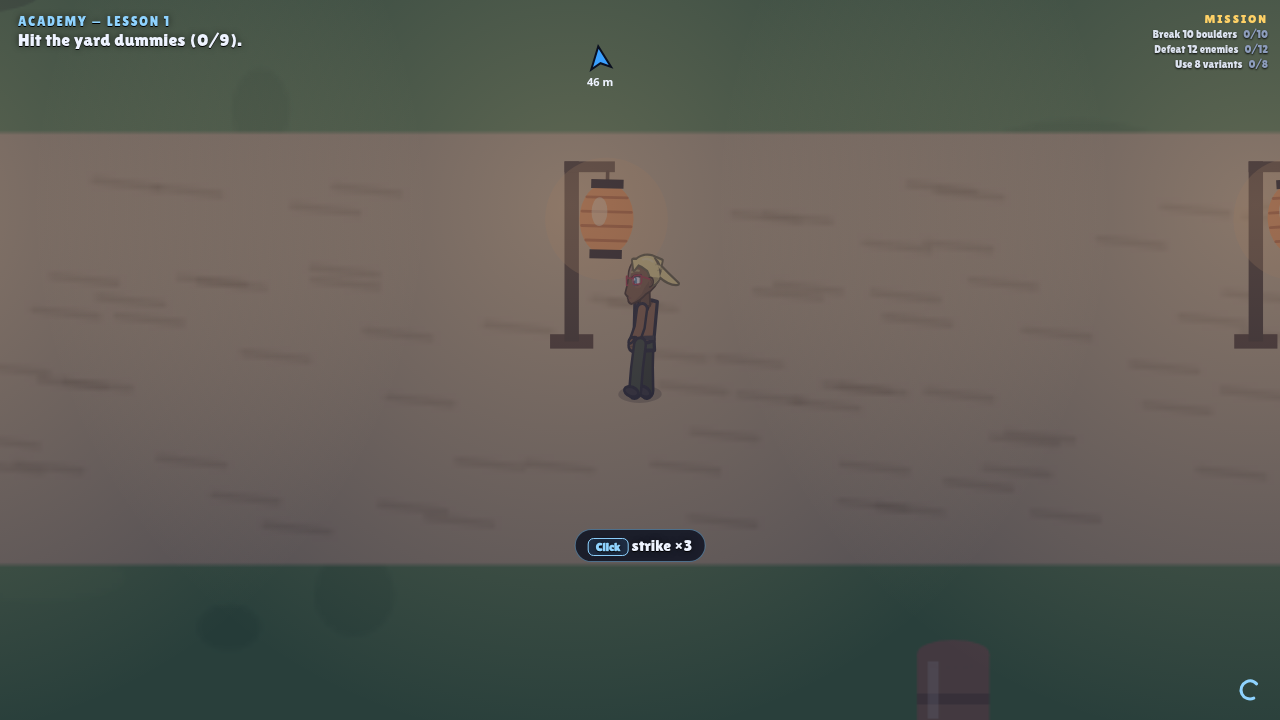
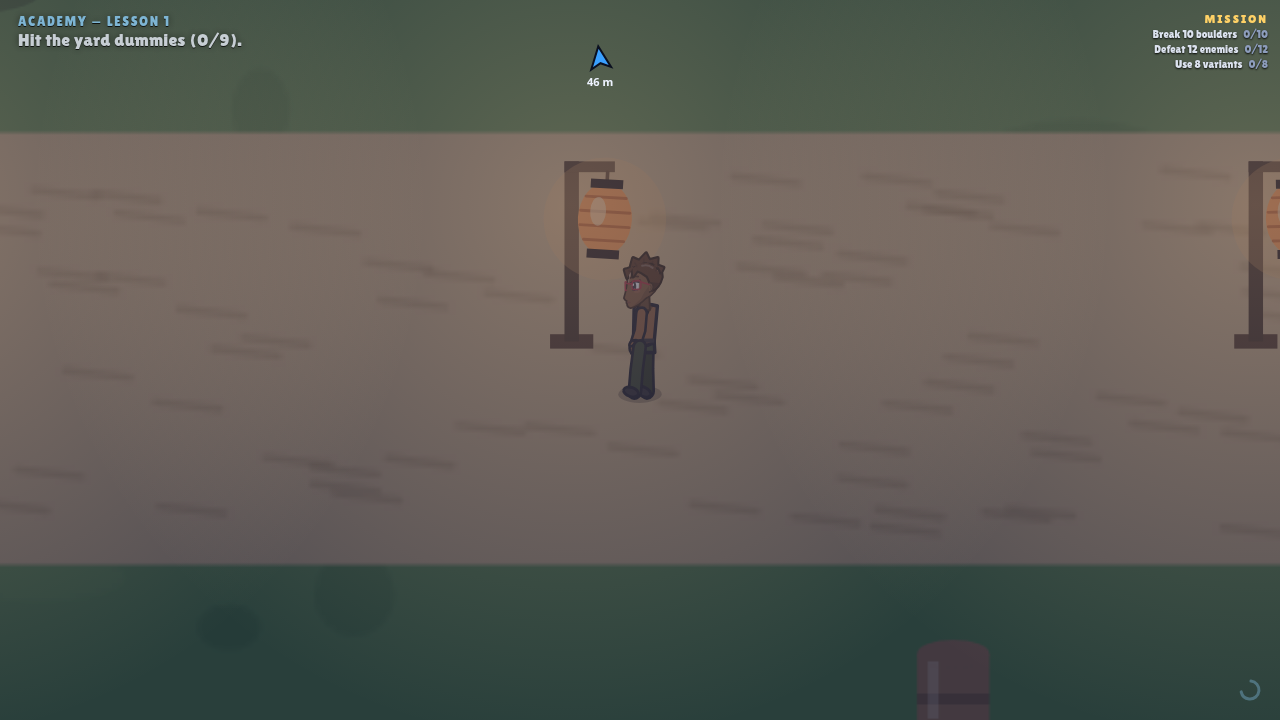
v0.10.50 Point-blank projectiles hit; academy lesson 3 fixed

diff --git a/tests/voie1.js b/tests/voie1.js
@@ -1,0 +1,32 @@
+// Real-input Voie onboarding: new game -> dummies -> dodge -> technique -> rival -> team -> sensei bells -> mission board -> first mission.
+const {chromium}=require('playwright-core');const SH='/workspace/two-blue-vortex/screens/v10/np/';
+(async()=>{const b=await chromium.launch({executablePath:'/usr/bin/google-chrome',args:['--no-sandbox']});const errs=[];const p=await b.newPage({viewport:{width:1280,height:720}});p.on('pageerror',e=>errs.push(e.message));p.on('console',m=>{if(m.type()=='error')errs.push(m.text().slice(0,150))});
+await p.goto('file:///workspace/two-blue-vortex/index.html');await p.waitForTimeout(900);if(await p.$('#lay07'))await p.click('#lay1');await p.click('#bNewV');await p.waitForTimeout(1200);await p.click('#cGo');
+const seen={};let last='',stuck=0;const T0=Date.now();
+for(let it=0;it<900&&Date.now()-T0<330000;it++){
+ const s=await p.evaluate(()=>{const h=Game.hero,V=Voie;const sc=Math.min(Math.max(innerWidth/1150,0.62),1.25)*Cam.z;const scr=(o)=>[innerWidth/2+(o.x-Cam.x)*sc,innerHeight/2+(o.y-30-Cam.y)*sc];
+  const S=V.step;let t=null,mode='walk';const F=World.foes().filter(f=>f.hp>0&&!f.gone);
+  if(S==='a1'||S==='a3'){t=F.filter(f=>f.tag==='yard').sort((a,b)=>dist(a,h)-dist(b,h))[0];mode=S==='a1'?'m1':'s1'}
+  else if(S==='a2'){t={x:h.x,y:h.y};mode='dodge';const pr=Proj.find(q=>q.lesson&&Math.hypot(q.x-h.x,q.y-h.y)<140);if(!pr)mode='wait'}
+  else if(S==='a4'||S==='a6'){t=F.filter(f=>f.tag==='rival'||f.tag==='sensei')[0];mode='fight'}
+  else if(S==='a5'){t=V.iruka;mode='use'}
+  else{const g=V.target&&V.target();if(g)t={x:g[0],y:g[1]};mode=V.mis?'fight':'use';const n=F.filter(f=>!f.passive&&!f.dummy).sort((a,b)=>dist(a,h)-dist(b,h))[0];if(n&&dist(n,h)<400){t=n;mode='fight'}}
+  return {S,les:V.lesson,mis:V.mis&&V.mis.id,got:V.mis&&V.mis.got,talk:Talk.on,ch:!!Talk.showing,scene:!!(window.Scene&&Scene.on),cine:!!Game.cine,t:t?[t.x-h.x,t.y-h.y,Math.hypot(t.x-h.x,t.y-h.y)]:null,sp:t?scr(t):null,mode,hp:Math.round(h.hp/h.maxHp*100),obj:document.body.innerText.match(/(ACADEMY|ACADÉMIE|MISSION)[^\n]*\n[^\n]*/)?.[0]}});
+ const key=s.S+(s.mis||'');if(!seen[key]){seen[key]=1;console.log((Date.now()-T0)/1000|0,'s','step',s.S,'mis',s.mis,'obj',JSON.stringify(s.obj));await p.screenshot({path:SH+'voie1-'+key+'.png'})}
+ if(s.scene){await p.keyboard.press('Escape');const sk=await p.$('#scnskip');if(sk&&await sk.isVisible().catch(()=>0))await sk.click().catch(()=>{});await p.waitForTimeout(300);continue}
+ if(s.talk){if(s.ch)await p.keyboard.press('Digit1');await p.keyboard.press('KeyE');await p.waitForTimeout(350);continue}
+ if(s.cine){await p.waitForTimeout(200);continue}
+ if(s.S==='free'&&s.mis===null&&seen.freeMisDone)break;
+ const sig=JSON.stringify([s.S,s.les,s.mis,s.got]);if(sig===last)stuck++;else{stuck=0;last=sig}
+ if(!s.t){await p.waitForTimeout(200);continue}
+ const near=s.mode==='use'?50:s.mode==='fight'?90:60;
+ if(s.t[2]>near&&s.mode!=='dodge'&&s.mode!=='wait'){const k=[];if(s.t[0]>20)k.push('ArrowRight');if(s.t[0]<-20)k.push('ArrowLeft');if(s.t[1]>20)k.push('ArrowDown');if(s.t[1]<-20)k.push('ArrowUp');for(const x of k)await p.keyboard.down(x);await p.waitForTimeout(Math.min(400,60+s.t[2]/2));for(const x of k)await p.keyboard.up(x);if(s.mode==='use'||s.t[2]>250)continue}
+ if(s.mode==='dodge'){await p.keyboard.down('ArrowUp');await p.keyboard.press('KeyQ');await p.keyboard.up('ArrowUp');await p.waitForTimeout(250);continue}
+ if(s.mode==='wait'){await p.waitForTimeout(120);continue}
+ await p.mouse.move(s.sp[0],s.sp[1]);
+ if(s.mode==='use'){await p.keyboard.press('KeyE');await p.waitForTimeout(300)}
+ else if(s.mode==='s1'){await p.keyboard.press('Digit1');await p.waitForTimeout(500)}
+ else{const r=it%7;if(r===3)await p.keyboard.press('Digit1');else if(r===5)await p.keyboard.press('Digit2');else{await p.mouse.down();await p.waitForTimeout(50);await p.mouse.up()}await p.waitForTimeout(220)}
+ if(s.S==='free'&&s.mis)seen.freeMisDone=0; if(s.S==='free'&&!s.mis&&seen['freechat'+'']){}
+ if(stuck>0&&stuck%60===0)console.log('STUCK?',sig,JSON.stringify(s))}
+const e=await p.evaluate(()=>[Voie.step,Voie.mis&&Voie.mis.id,Voie.done,Voie.rank]);console.log('end',JSON.stringify(e),'secs',(Date.now()-T0)/1000|0);await p.screenshot({path:SH+'voie1-fin.png'});console.log('errs',errs.slice(0,5));await b.close()})();

diff --git a/index.html b/index.html
@@ -104,7 +104,7 @@ button.b.p{background:var(--gold);color:var(--ink)}button.b.p2{background:var(--
 <script>
 'use strict';
 /* ============ Noyau : réglages, sauvegarde, entrées, audio ============ */
-const VERSION = '0.10.49';
+const VERSION = '0.10.50';
 const K10 = Math.sqrt(10); // v0.9.7 : échelle des cartes extérieures (surface ×10)
 const $ = (s) => document.querySelector(s);
 const TAU = Math.PI * 2, clamp = (v, a, b) => (v < a ? a : v > b ? b : v), lerp = (a, b, t) => a + (b - a) * t;
@@ -5959,6 +5959,19 @@ let FT10 = null, FB10 = null;
     g.fillStyle = 'rgba(255,255,255,.18)'; g.fillRect(x, y, W * pr, 1.5);
     g.fillStyle = 'rgba(6,10,22,.9)'; for (const k of [0.25, 0.5, 0.75]) g.fillRect(x + W * k - 1, y - 1, 2, 7);
     g.restore(); };
+})();
+
+// v0.10.50 — Bout portant : un projectile du joueur naît à la main, parfois déjà « derrière » un ennemi collé à lui (ex. leçon 3 de l’Académie, shuriken sur un mannequin au contact → raté).
+// À sa première frame, on teste le segment corps → main : le premier ennemi traversé est touché via le chemin normal (on recule simplement le projectile sur lui).
+(() => {
+  const pu = projUpdate;
+  projUpdate = function (dt) {
+    for (const p of Proj) { if (p._pb10) continue; p._pb10 = 1; const u = p.src; if (p.team !== 0 || !u || !u.isHero) continue;
+      const ax = u.x, ay = u.y - 34, bx = p.x, by = p.y, L = Math.hypot(bx - ax, by - ay) + 1; let best = null, bt = 2;
+      for (const f of World.foes()) { if (f.hp <= 0 || f.gone) continue; const fx = f.x, fy = f.y - 34, t = clamp(((fx - ax) * (bx - ax) + (fy - ay) * (by - ay)) / (L * L), 0, 1); const d = Math.hypot(ax + (bx - ax) * t - fx, ay + (by - ay) * t - fy); if (d < (f.r || 16) + (p.r || 10) && t < bt) { bt = t; best = f; } }
+      if (best) { p.x = best.x - p.vx * dt; p.y = best.y - 34 - p.vy * dt; } }
+    return pu.apply(this, arguments);
+  };
 })();
 
 </script></body></html>

diff --git a/tests/l3.js b/tests/l3.js
@@ -1,0 +1,6 @@
+const {chromium}=require('playwright-core');
+(async()=>{const b=await chromium.launch({executablePath:'/usr/bin/google-chrome',args:['--no-sandbox']});const p=await b.newPage({viewport:{width:1280,height:720}});const errs=[];p.on('pageerror',e=>errs.push(e.message));
+await p.goto('file:///workspace/two-blue-vortex/index.html');await p.waitForTimeout(900);if(await p.$('#lay07'))await p.click('#lay1');
+await p.evaluate(()=>{Game.startVoie({name:'Aoi',clan:'uchiha',look:makeLook(9)});setInterval(()=>{if(window.Scene&&Scene.on)Scene.close();if(Talk.on&&Talk.t>0.3){if(Talk.showing)Talk.pick(0);else Talk.next()}},200)});await p.waitForTimeout(5000);
+for(const D of [12,60,150]){const r=await p.evaluate(async(D)=>{Voie.set('a3');Voie.flags.l3t=0;const h=Game.hero;const d=World.foes().filter(f=>f.tag==='yard')[0];h.x=d.x-D;h.y=d.y;h.cd={};h.ch=999;Input.mouse&&(Input.mouse.wx=d.x);const id=Game.skills[0];const hp0=d.hp;h.aimA=0;fireSkill(h,SK[id],id);await new Promise(r=>setTimeout(r,120));const P0=Proj.map(q=>[Math.round(q.x-d.x),Math.round(q.y-d.y),q.team,!!q.src,q.src&&q.src.isHero,q.r,q.kind]);await new Promise(r=>setTimeout(r,1500));return [JSON.stringify(P0),id,D,Voie.step,d.hp,hp0,d.tag,d.dummy,Object.keys(d).filter(k=>/hit|inv|iframe/.test(k))]},D);console.log(JSON.stringify(r))}
+console.log(errs);await b.close()})();

diff --git a/tests/lan.js b/tests/lan.js
@@ -2,6 +2,7 @@ const {chromium}=require('playwright-core');
 (async()=>{const b=await chromium.launch({executablePath:'/usr/bin/google-chrome',args:['--no-sandbox']});const errs=[];const p=await b.newPage({viewport:{width:1280,height:720}});p.on('pageerror',e=>errs.push(e.message));
 await p.goto('file:///workspace/two-blue-vortex/index.html');await p.waitForTimeout(900);if(await p.$('#lay07'))await p.click('#lay1');
 await p.evaluate(()=>{Game.startVoie({name:'Aoi',clan:'uchiha',look:makeLook(9)});setInterval(()=>{if(Talk.on&&Talk.t>0.3){if(Talk.showing)Talk.pick(0);else Talk.next()}},200)});await p.waitForTimeout(6000);
+for(let i=0;i<8;i++){await p.evaluate(()=>{if(Scene.on)Scene.close()});await p.waitForTimeout(400)}
 const L=await p.evaluate(()=>{ZONE8.exit&&ZONE8.exit({instant:true});const l=World.props.filter(p=>p.kind==='lantern');const h=Game.hero;const q=l.sort((a,b)=>Math.hypot(a.x-h.x,a.y-h.y)-Math.hypot(b.x-h.x,b.y-h.y))[0];return q&&[q.x,q.y,l.length]});console.log(L);
 for(const [t,n] of [[12,'jour'],[22,'nuit']]){await p.evaluate(([x,y,t])=>{World.time=t;const h=Game.hero;h.x=x+60;h.y=y+40;Cam.z=1.6},[L[0],L[1],t]);await p.waitForTimeout(800);await p.screenshot({path:'/workspace/two-blue-vortex/screens/v10/map/lanterne-'+n+'.png'})}
 console.log('errs',errs);await b.close()})();

diff --git a/src/8zzw_pblank10.js b/src/8zzw_pblank10.js
@@ -1,0 +1,12 @@
+// v0.10.50 — Bout portant : un projectile du joueur naît à la main, parfois déjà « derrière » un ennemi collé à lui (ex. leçon 3 de l’Académie, shuriken sur un mannequin au contact → raté).
+// À sa première frame, on teste le segment corps → main : le premier ennemi traversé est touché via le chemin normal (on recule simplement le projectile sur lui).
+(() => {
+  const pu = projUpdate;
+  projUpdate = function (dt) {
+    for (const p of Proj) { if (p._pb10) continue; p._pb10 = 1; const u = p.src; if (p.team !== 0 || !u || !u.isHero) continue;
+      const ax = u.x, ay = u.y - 34, bx = p.x, by = p.y, L = Math.hypot(bx - ax, by - ay) + 1; let best = null, bt = 2;
+      for (const f of World.foes()) { if (f.hp <= 0 || f.gone) continue; const fx = f.x, fy = f.y - 34, t = clamp(((fx - ax) * (bx - ax) + (fy - ay) * (by - ay)) / (L * L), 0, 1); const d = Math.hypot(ax + (bx - ax) * t - fx, ay + (by - ay) * t - fy); if (d < (f.r || 16) + (p.r || 10) && t < bt) { bt = t; best = f; } }
+      if (best) { p.x = best.x - p.vx * dt; p.y = best.y - 34 - p.vy * dt; } }
+    return pu.apply(this, arguments);
+  };
+})();

diff --git a/tests/fpsab.js b/tests/fpsab.js
@@ -1,0 +1,7 @@
+// Side-by-side FPS: alternates old (v0.10.35) and new builds, 3 runs each, reports medians + delta.
+const {execFileSync}=require('child_process');const NEW='file:///workspace/two-blue-vortex/index.html',OLD='file:///tmp/old/index.html';
+const run=(u)=>{const o=execFileSync('node',['/tmp/pw/fpsold.js','r'],{env:{...process.env,U:u}}).toString();const m=o.match(/r (\{.*\}) errs (\d+)/);return {...JSON.parse(m[1]),errs:+m[2]}};
+const R={old:[],new:[]};for(let i=0;i<3;i++){R.old.push(run(OLD));R.new.push(run(NEW))}
+const med=(a,k)=>a.map(x=>x[k]).sort((x,y)=>x-y)[1];const out={};for(const k of ['fps','update_ms','render_ms','frame_ms','worst_ms'])out[k]={old:med(R.old,k),new:med(R.new,k),delta:+(med(R.new,k)-med(R.old,k)).toFixed(2)};
+console.log(JSON.stringify(out));const e=R.new.reduce((s,x)=>s+x.errs,0);console.log('newErrs',e);
+const bad=out.frame_ms.delta>Math.max(1,out.frame_ms.old*0.1);console.log(bad?'FPS CHECK FAILED':'FPS CHECK OK');process.exit(bad||e?1:0);

diff --git a/src/10_core.js b/src/10_core.js
@@ -1,6 +1,6 @@
 'use strict';
 /* ============ Noyau : réglages, sauvegarde, entrées, audio ============ */
-const VERSION = '0.10.49';
+const VERSION = '0.10.50';
 const K10 = Math.sqrt(10); // v0.9.7 : échelle des cartes extérieures (surface ×10)
 const $ = (s) => document.querySelector(s);
 const TAU = Math.PI * 2, clamp = (v, a, b) => (v < a ? a : v > b ? b : v), lerp = (a, b, t) => a + (b - a) * t;

diff --git a/PATCH_NOTES.md b/PATCH_NOTES.md
@@ -1,3 +1,6 @@
+## v0.10.50 — Point-blank projectiles hit; academy lesson 3 fixed
+Projectiles fired point-blank no longer pass through an enemy pressed against you (lesson 3 of the Academy could stall with a dummy at contact). Release check now compares FPS side by side against v0.10.35 (3 alternating runs, medians).
+
 ## v0.10.49 — Village perf: offscreen house cache; dummies real-input test
 Houses are pre-rendered offscreen (day/night, LRU 40): house draw cost 0.098 → ~0.04 ms. Added real-input tests for the dummies lesson and the prologue boss bar.
 
